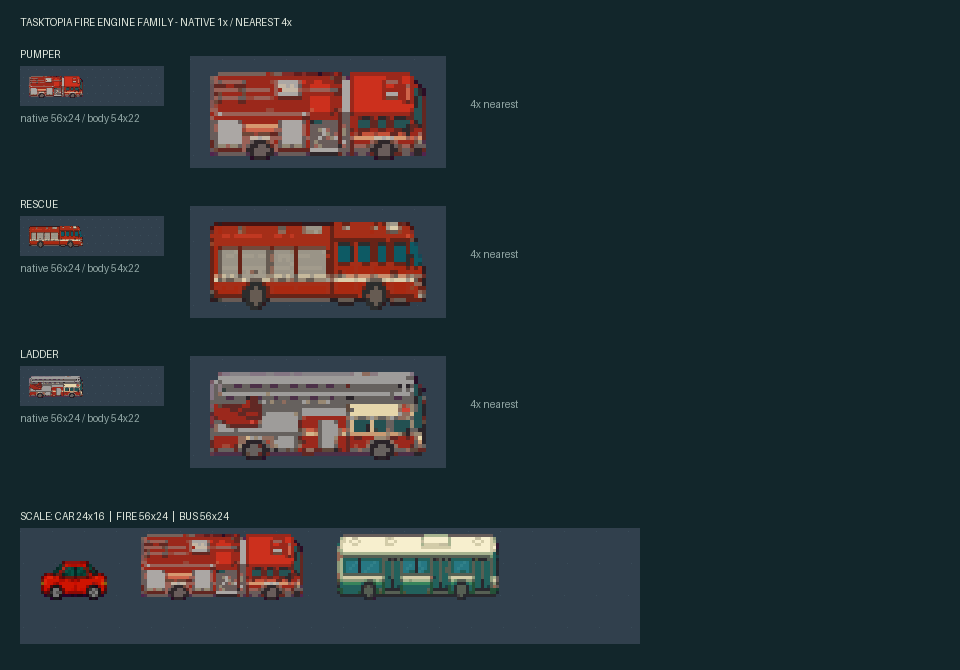
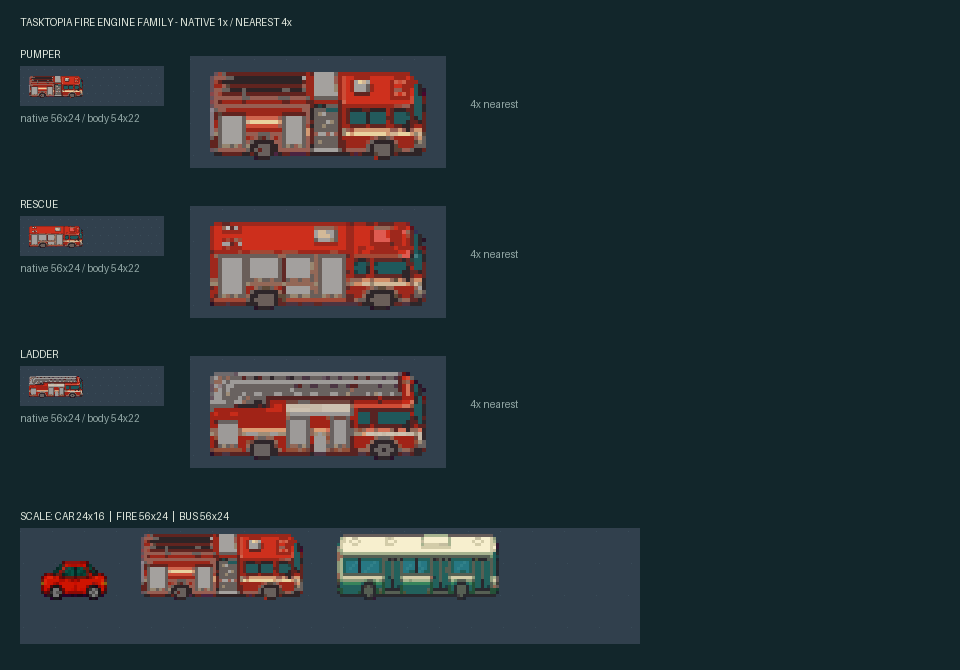
fix: align fire engines with road projection

diff --git a/src/client/components/WorldCanvas.tsx b/src/client/components/WorldCanvas.tsx
@@ -656,6 +656,10 @@ function drawTaskIncident(task: ChunkTaskDto, mode: Exclude<IncidentMode, "NONE"
   const engineX = entry.spriteSize.width / 2 + engineWidth / 2;
   const engine = sprite(PROP_SPRITES[engineKey]!, engineX, 2);
   engine.anchor.set(0.5, 1);
+  // Authored horizontal engines face east. They park to the right of the
+  // building, so mirror the accepted view exactly as moving cars do for west:
+  // the cab and hose point back toward the incident instead of away from it.
+  engine.scale.x = -1;
 
   const stageBounds = entry.stageOpaqueBounds[Math.max(0, Math.min(4, task.stage - 1))]!;
   const layout = incidentVisualLayout(entry.spriteSize.width, entry.spriteSize.height, profile, stageBounds);
@@ -667,7 +671,7 @@ function drawTaskIncident(task: ChunkTaskDto, mode: Exclude<IncidentMode, "NONE"
   const beacon = fullResponse
     ? new Graphics().rect(-2, -2, 4, 2).fill(0x71d7f2)
     : new Graphics().rect(-2, -2, 4, 4).fill(0xf2574c);
-  beacon.position.set(fullResponse ? engineX + 12 : alarmAnchor.x - 2, fullResponse ? -20 : alarmAnchor.y - 3);
+  beacon.position.set(fullResponse ? engineX - 12 : alarmAnchor.x - 2, fullResponse ? -20 : alarmAnchor.y - 3);
 
   const flames = layout.flameAnchors.map((anchor, index) => {
     const frameA = sprite(PROP_SPRITES[FLAME_KEYS[(visualSeed + index) % FLAME_KEYS.length]!]!, anchor.x, anchor.y);
@@ -698,7 +702,7 @@ function drawTaskIncident(task: ChunkTaskDto, mode: Exclude<IncidentMode, "NONE"
     y: anchor.y - 2,
   }));
   const initialTarget = incidentWaterTargetFrame(targets, 0, visualSeed % 700)!;
-  const waterJet = { source: { x: engineX + 8, y: -18 }, targets, targetIndex: initialTarget.index };
+  const waterJet = { source: { x: engineX - 8, y: -18 }, targets, targetIndex: initialTarget.index };
   drawIncidentWaterJet(water, waterJet.source, initialTarget.target, 0, visualSeed % 700);
 
   const hasFlame = profile.burning;

diff --git a/tests/pixel-city-assets.test.ts b/tests/pixel-city-assets.test.ts
@@ -285,12 +285,11 @@ describe("Pixel City active asset contract", () => {
   });
 
   it("publishes four incident animation frames, three proportional engine silhouettes, and eight animal species", () => {
-    const props = manifest.props as Record<string, { size: number[]; occupiedSize?: number[]; footprintCells: number[]; artSource?: string; sourceSheet?: string }>;
-    const fireSources: Record<string, string> = {
-      "fire-engine-horizontal": "ai-authored/ambient/fire-engines-v6.png",
-      "fire-engine-rescue": "ai-authored/ambient/fire-engine-rescue-v6.png",
-      "fire-engine-ladder": "ai-authored/ambient/fire-engines-v6.png",
-    };
+    const props = manifest.props as Record<string, { size: number[]; occupiedSize?: number[]; footprintCells: number[]; artSource?: string; sourceSheet?: string; sourceSha256?: string; visualProfile?: string; baseFacing?: string }>;
+    const fireSources: Record<string, string> = Object.fromEntries(
+      ["fire-engine-horizontal", "fire-engine-rescue", "fire-engine-ladder"]
+        .map((key) => [key, "ai-authored/ambient/fire-engines-v7.png"]),
+    );
     for (const [key, sourceSheet] of Object.entries(fireSources)) {
       expect(props[key], key).toMatchObject({
         size: [56, 24],
@@ -298,6 +297,9 @@ describe("Pixel City active asset contract", () => {
         footprintCells: [7, 3],
         artSource: "AI_AUTHORED",
         sourceSheet,
[1 lines of base64/hex data omitted]
+        visualProfile: "TASKTOPIA_V6_HEAVY_EMERGENCY_VEHICLE_FRONTAL_TOP",
+        baseFacing: "EAST",
       });
     }
     for (const prefix of ["incident-flame", "incident-smoke"]) {

diff --git a/scripts/verify-vehicle-proportions.py b/scripts/verify-vehicle-proportions.py
@@ -63,7 +63,7 @@ def opaque_runs(alpha: Image.Image, y: int) -> list[int]:
     return widths
 
 
-def assert_fire_engine_projection(key: str, image: Image.Image) -> None:
+def assert_fire_engine_projection(key: str, image: Image.Image, bus: Image.Image) -> None:
     """Require the same bus-class envelope and near-top wheel profile as transit."""
     alpha = image.getchannel("A")
     bounds = alpha.getbbox()
@@ -79,12 +79,20 @@ def assert_fire_engine_projection(key: str, image: Image.Image) -> None:
     row_widths = {width for _, _, width in rows}
     front_edges = {row_right for _, row_right, _ in rows}
     bottom_runs = opaque_runs(alpha, bottom - 1)
+    bus_alpha = bus.getchannel("A")
+    bus_bounds = bus_alpha.getbbox()
+    assert bus_bounds is not None
+    bus_top_xs = [x for x in range(bus_bounds[0], bus_bounds[2]) if bus_alpha.getpixel((x, bus_bounds[1]))]
     assert 0.84 <= fill_ratio <= 0.97, f"{key}: implausible heavy-vehicle fill ratio {fill_ratio:.3f}"
     assert len(row_widths) >= 4, f"{key}: flat silhouette has only {len(row_widths)} row widths"
     assert len(front_edges) >= 4, f"{key}: cab/front lacks a stepped east-facing profile"
     assert rows[0][2] < right - left, f"{key}: roof/top plane fills the full rectangular envelope"
     assert len(bottom_runs) == 2 and all(3 <= width <= 6 for width in bottom_runs), (
         f"{key}: expected two bus-scale rounded wheel contacts, got {bottom_runs}"
+    )
+    assert (left, top, right, bottom) == bus_bounds, f"{key}: road envelope diverges from the city bus"
+    assert abs(rows[0][0] - min(bus_top_xs)) <= 2 and abs(rows[0][1] - max(bus_top_xs)) <= 2, (
+        f"{key}: shallow top plane does not match the canonical east-facing bus camera"
     )
 
 
@@ -118,11 +126,10 @@ def main() -> None:
         checked.append((key, images))
 
     fire_engines: dict[str, Image.Image] = {}
-    fire_sources = {
-        "fire-engine-horizontal": "ai-authored/ambient/fire-engines-v6.png",
-        "fire-engine-rescue": "ai-authored/ambient/fire-engine-rescue-v6.png",
-        "fire-engine-ladder": "ai-authored/ambient/fire-engines-v6.png",
-    }
+    fire_sources = {key: "ai-authored/ambient/fire-engines-v7.png" for key in (
+        "fire-engine-horizontal", "fire-engine-rescue", "fire-engine-ladder",
+    )}
+    bus = Image.open(RUNTIME / manifest["props"]["city-bus-horizontal"]["path"]).convert("RGBA")
     for key, source_sheet in fire_sources.items():
         entry = manifest["props"][key]
         image = Image.open(RUNTIME / entry["path"]).convert("RGBA")
@@ -135,10 +142,12 @@ def main() -> None:
         assert entry["footprintCells"] == [7, 3], f"{key}: footprint {entry['footprintCells']}"
         assert entry.get("sourceSheet") == source_sheet, f"{key}: stale source"
         assert entry.get("artSource") == "AI_AUTHORED", f"{key}: source is not AI-authored"
-        assert entry.get("visualProfile") == "TASKTOPIA_V6_HEAVY_EMERGENCY_VEHICLE_NATIVE", (
+        assert entry.get("visualProfile") == "TASKTOPIA_V6_HEAVY_EMERGENCY_VEHICLE_FRONTAL_TOP", (
             f"{key}: stale visual profile"
         )
-        assert_fire_engine_projection(key, image)
+        assert entry.get("baseFacing") == "EAST", f"{key}: horizontal source must face east"
+        assert entry.get("sourceSha256"), f"{key}: missing immutable source digest"
+        assert_fire_engine_projection(key, image, bus)
         fire_engines[key] = image
     for left_key, right_key in itertools.combinations(fire_engines, 2):
         left = fire_engines[left_key]

diff --git a/scripts/build-pixel-city-pack.py b/scripts/build-pixel-city-pack.py
@@ -2070,6 +2070,14 @@ def load_ai_authored_ambient_catalog(name: str) -> list[dict]:
             raise ValueError(f"{key}: AI-authored path leaves reference directory")
         if not source.exists():
             raise FileNotFoundError(source)
+        expected_digest = entry.get("sheetSha256")
+        if expected_digest is not None:
+            actual_digest = hashlib.sha256(source.read_bytes()).hexdigest()
+            if expected_digest != actual_digest:
+                raise ValueError(
+                    f"{key}: ambient source digest mismatch; "
+                    f"expected {expected_digest}, got {actual_digest}"
+                )
         grid = entry.get("grid")
         if grid is not None and (
             not isinstance(grid, list)
@@ -2335,6 +2343,7 @@ def build_manifest(specs: list[HouseSpec]) -> dict:
             "artSource": authored.get("artSource", "AI_AUTHORED"),
             "sourceSheet": str(source.relative_to(AI_AUTHORED_ART)),
             "visualProfile": authored.get("visualProfile", "TASKTOPIA_V5_AMBIENT"),
+            **({"sourceSha256": authored["sheetSha256"]} if authored.get("sheetSha256") else {}),
             **({"baseFacing": authored["baseFacing"]} if authored.get("baseFacing") else {}),
         }
     # A walk cycle is one authored subject, so all three poses must use one

diff --git a/docs/QA.md b/docs/QA.md
@@ -43,7 +43,9 @@
    кузов `54×22`, footprint `7×3` и стоит целиком справа от фасада. Высота
    кабины, диаметр колёс, baseline и плотность деталей совпадают с автобусом;
    явно видны крыша, боковые окна, наклонное лобовое стекло, верхняя и ближняя
-   боковая плоскости. Машина не выглядит пикапом или прямоугольным примитивом. Струя
+   боковая плоскости. Кабина смотрит влево, к зданию: это точное зеркалирование
+   принятого east-facing исходника без поворота или новой проекции. Машина не
+   выглядит пикапом, плоским боковым elevation или прямоугольным примитивом. Струя
    начинается толстой у сопла, сужается у огня и каждые `1600 ms` переводится
    к следующему очагу; сам перевод занимает `320 ms`, без скачка и разрыва.
 
@@ -185,7 +187,7 @@ npm run test:db:stop
 
 1. Откройте задачу в готовом высоком здании и создайте шесть активных дефектов.
 2. На detail LOD убедитесь, что очаги находятся внутри фасада, занимают разные этажи и не образуют одну горизонтальную линию. На компактном здании должен остаться один небольшой очаг.
-3. Проверьте пожарную машину у бордюра при native `1x`: canvas `56×24`, кузов `54×22`; читаются высокая кабина, два крупных колеса и назначение модели — цистерна, спасательные шкафы или лестница. Габарит совпадает с автобусом `56×24` и заметно больше легковой `24×16`.
+3. Проверьте пожарную машину у бордюра при native `1x`: canvas `56×24`, кузов `54×22`; читаются неглубокая верхняя плоскость, ближний борт, высокая кабина, два крупных колеса и назначение модели — цистерна, спасательные шкафы или лестница. Габарит совпадает с автобусом `56×24` и заметно больше легковой `24×16`. Машина стоит справа от фасада и смотрит влево, к очагам; широкий фронтальный фасад кабины или направление от здания являются блокирующей ошибкой.
 4. Струя должна начинаться на крыше машины и последовательно тушить все очаги. При переводе между точками меняется угол непрерывной дуги, затем новая точка удерживается; блики и ударные брызги продолжают двигаться без масштабирования всей линии. Telemetry `data-incident-water-targets` должна быть больше `1`, а `data-incident-water-target-indexes` — меняться.
 5. Переведите один дефект через `IN_PROGRESS → VERIFYING → FIXED`, затем закройте остальные. Огонь должен исчезнуть при пяти активных дефектах, дым — после последнего, без повторной загрузки ground или потери камеры.
 

diff --git a/CHANGELOG.md b/CHANGELOG.md
@@ -2,6 +2,12 @@
 
 ## Unreleased
 
+## 1.20.1 — 2026-08-24
+
+- Три пожарные машины заново собраны из единого AI-authored V7-листа в той же east-facing frontal-top проекции, что автобус и легковые: неглубокая верхняя плоскость, ближний борт, узкая ступенчатая передняя кромка и два колеса на общей дорожной baseline. Исходник закреплён SHA-256 и больше не может незаметно вернуться к плоскому боковому ракурсу.
+- При парковке справа от горящего здания east-facing исходник зеркалится тем же способом, что автомобиль при движении на запад: кабина, маяк и начало водяной струи теперь направлены влево, к фасаду, а не от места происшествия.
+- Vehicle gate сравнивает envelope и верхнюю плоскость каждого пожарного варианта с каноническим автобусом, дополнительно проверяет направление, immutable source digest и отдельные силуэты автоцистерны, спасательной машины и автолестницы.
+
 ## 1.20.0 — 2026-08-24
 
 - Первый seed-кадр получил редкие связные травяные акценты по 1–3 пикселя, сгруппированные крупными природными пятнами, и устойчивые к границам чанков поля `40–52 × 28–38` клеток. Пшеница и кукуруза рисуются вариативными рядами пикселей без тысяч отдельных crop-entities и без координат в PostgreSQL.

diff --git a/assets/pixel-city-pack/docs/ASSET-EXPANSION-PLAN.md b/assets/pixel-city-pack/docs/ASSET-EXPANSION-PLAN.md
@@ -49,7 +49,9 @@ chroma, сохранить пропорции, сделать hard alpha и со
 Природный набор расширен до 16 заново отрисованных основных видов деревьев, шести кустарников и восьми
 видов животных. Инциденты используют три структурно разные тяжёлые пожарные машины
 `56×24`/`54×22` с footprint `7×3` (автоцистерна, спасательная и автолестница)
-в той же near-top проекции, масштабе и плотности деталей, что городской автобус:
+из immutable V7-листа в той же near-top проекции, масштабе и плотности деталей,
+что городской автобус. East-facing authored-спрайт зеркалится только при парковке
+справа от фасада, чтобы кабина и струя были направлены к очагам:
 наклонное лобовое стекло, высокая кабина, видимые верхняя и ближняя боковая
 плоскости и крупные округлые колёса; и четыре кадра огня
 и дыма. Генератор рельефа выбирает один из восьми глобально устойчивых типов
